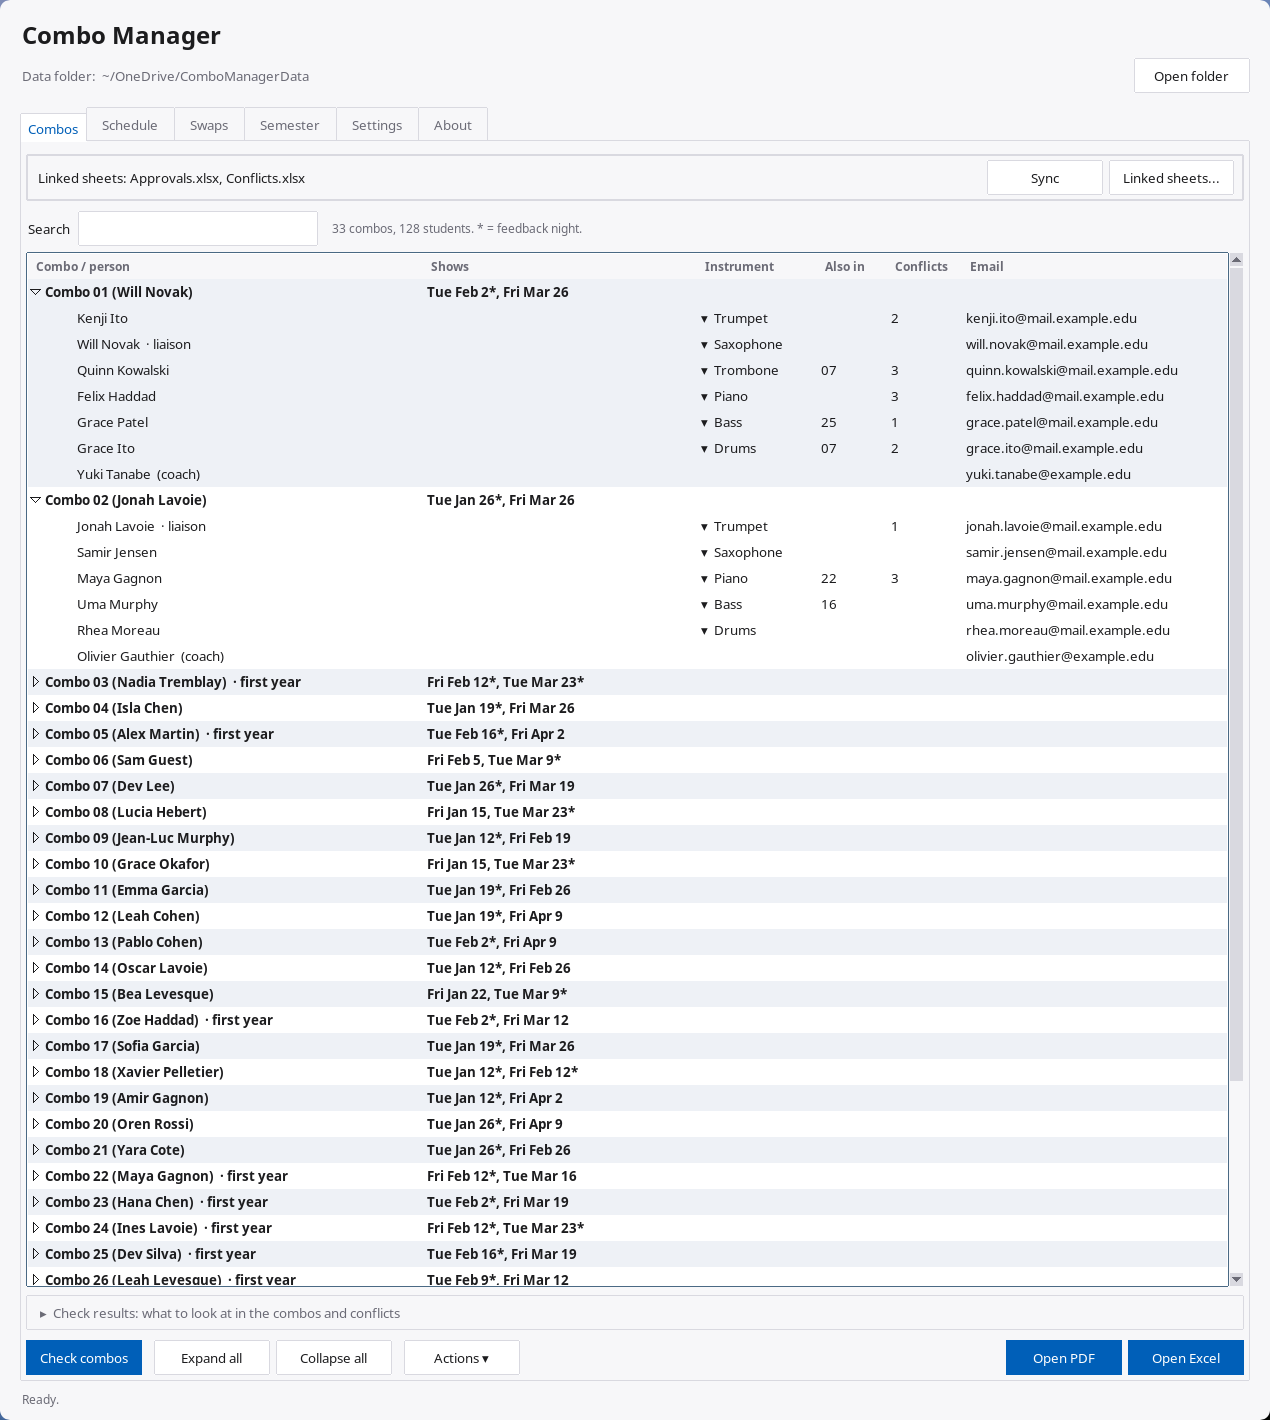
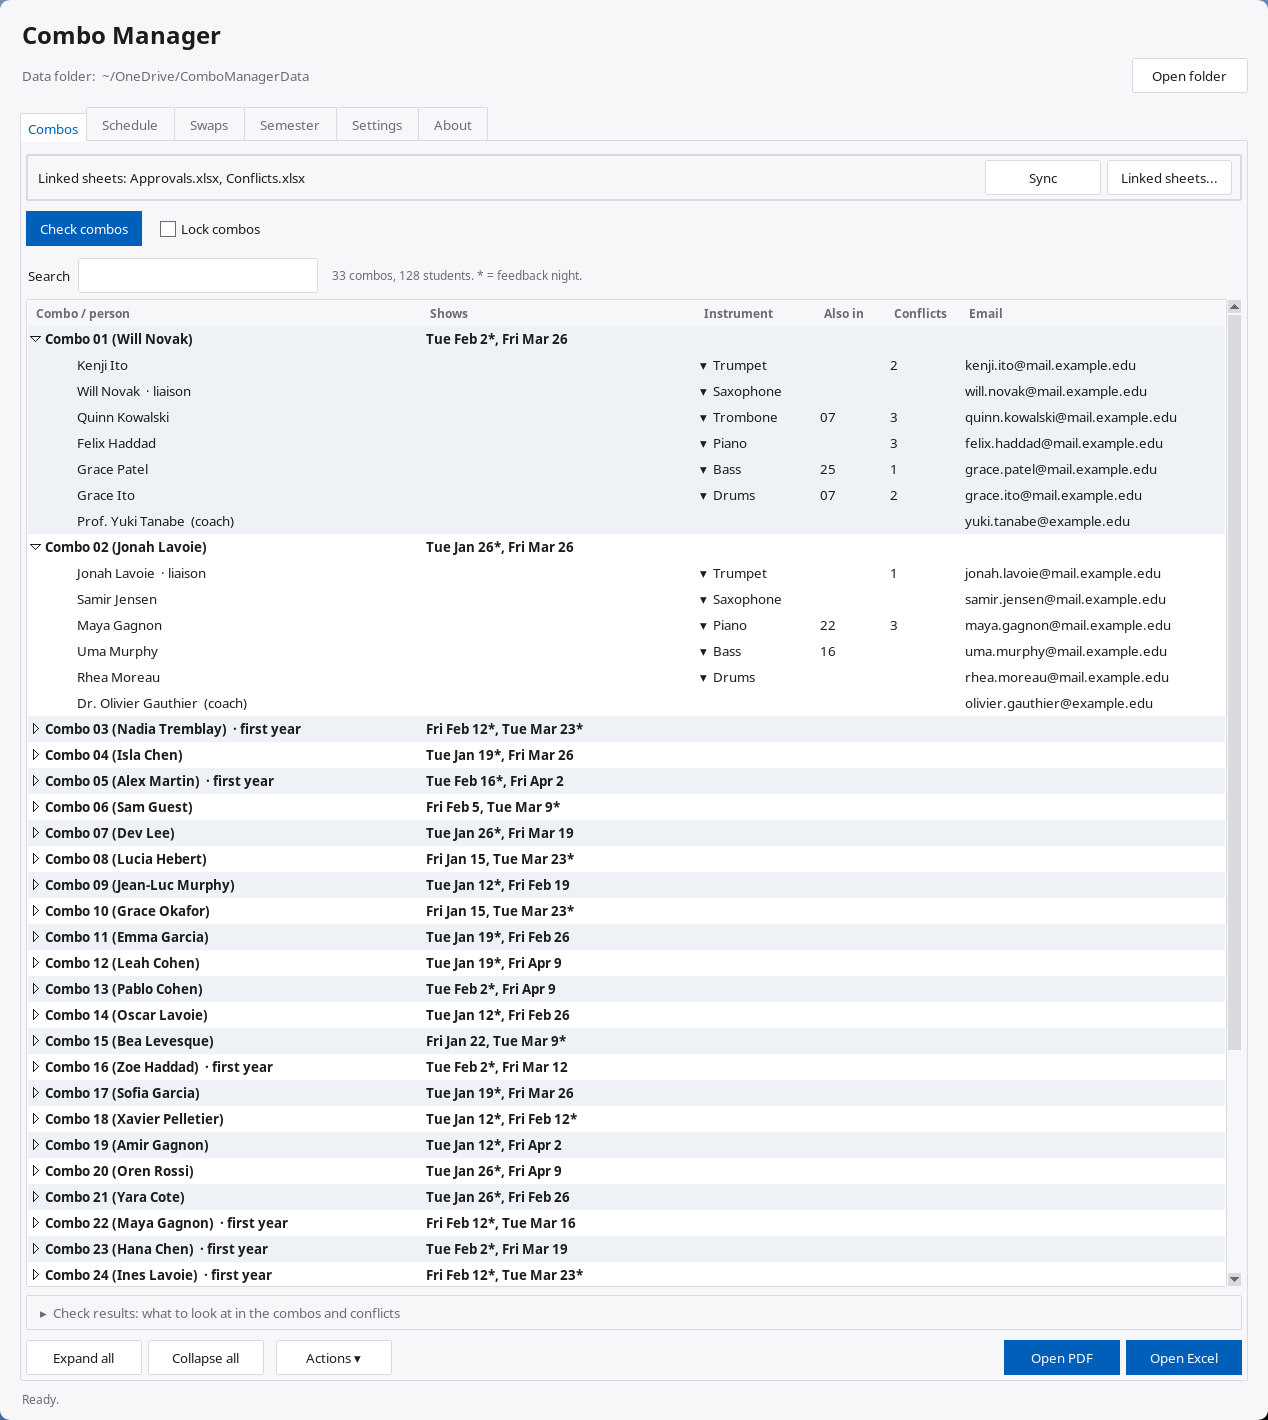
README screenshots: the current version, coaches and faculty members with titles, and the PDF calendar

diff --git a/README.md b/README.md
@@ -17,6 +17,10 @@ ends up as a calendar PDF and an Excel file, ready to share.
 |---|---|
 | ![The Combos tab](docs/combos.png) | ![The Swaps tab](docs/swaps.png) |
 
+The calendar students get (Schedule.pdf):
+
+![The show calendar](docs/calendar.png)
+
 *The screenshots use made-up data: the names, emails and venues are fake.*
 
 ## What it does
